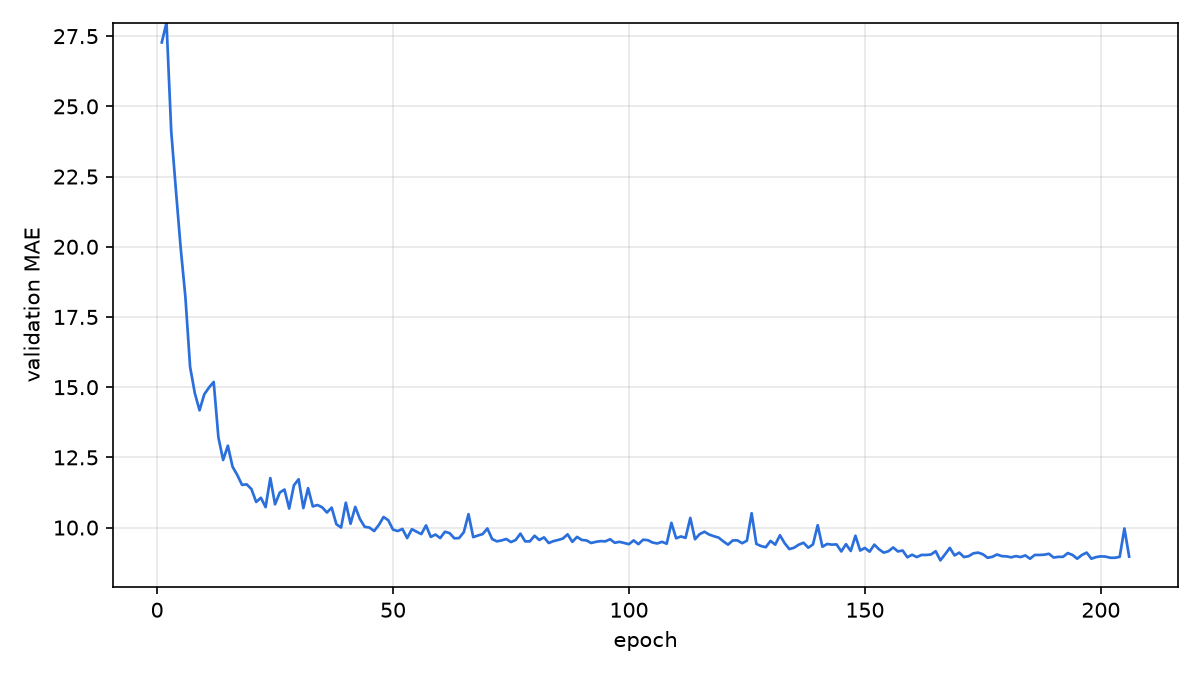
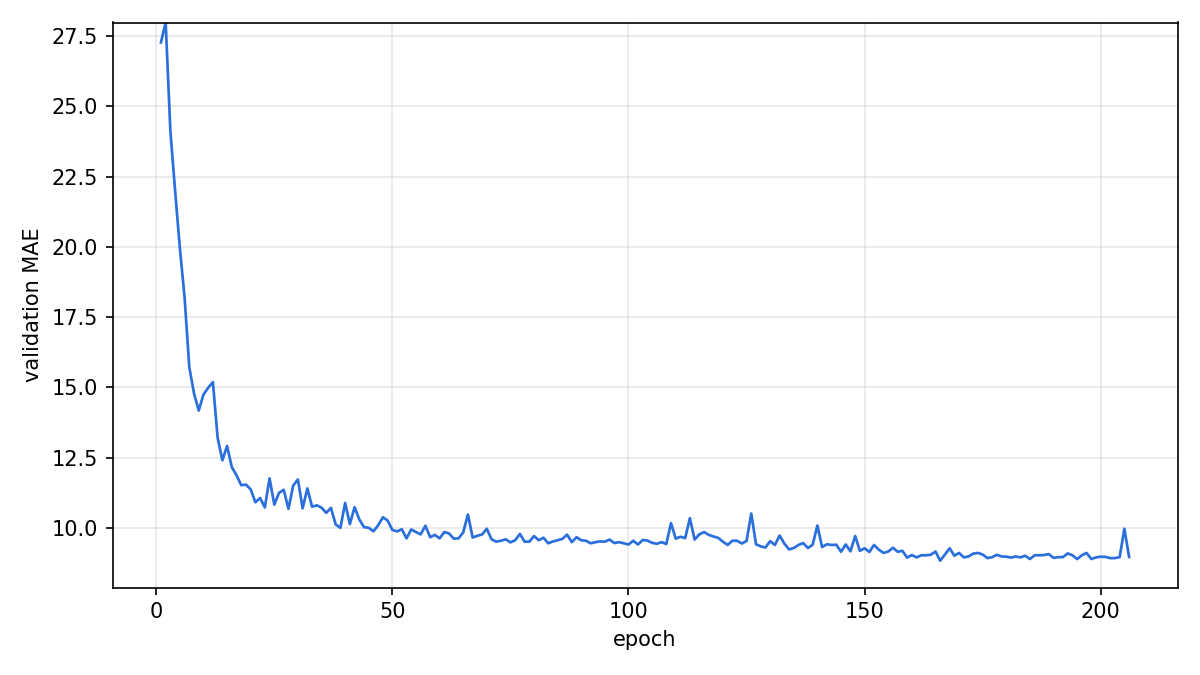
added comparison metrics for SPIN

diff --git a/imputegap/wrapper/AlgoPython/SPIN/validation/run_imputegap_version.py b/imputegap/wrapper/AlgoPython/SPIN/validation/run_imputegap_version.py
@@ -33,8 +33,6 @@ SEEDS = [1, 2, 3]
 
 
 class ExportedWindows(Dataset):
-    """Windows over the exported arrays, returning the same dict recovSPIN's loader returns."""
-
     def __init__(self, scaled, training_mask, eval_mask, u, starts, window):
         self.data = torch.as_tensor(scaled, dtype=torch.float32)[..., None]
         self.mask = torch.as_tensor(training_mask)[..., None]
@@ -54,12 +52,10 @@ class ExportedWindows(Dataset):
 
 def train_matched(model, train_loader, valid_loader, edge_index, edge_weight, device, epochs, lr, patience,
                   batches_epoch, whiten_prob, grad_clip_val, accumulate=2, verbose=True):
-    """recovSPIN.train with the authors' gradient accumulation + fp16 mixed precision added.
-    Lines differing from recovSPIN.train are marked  # <- matched."""
     optimizer = torch.optim.Adam(model.parameters(), lr=lr)
     scheduler = CosineSchedulerWithRestarts(optimizer, num_warmup_steps=12, min_factor=0.1, linear_decay=0.67,
                                             num_training_steps=epochs, num_cycles=max(1, epochs // 100))
-    scaler = torch.amp.GradScaler("cuda", enabled=device.type == "cuda")           # <- matched
+    scaler = torch.amp.GradScaler("cuda", enabled=device.type == "cuda")           
     whiten_prob = torch.tensor(whiten_prob, device=device)
     best_val, best_state, wait = float("inf"), copy.deepcopy(model.state_dict()), 0
     for epoch in range(epochs):
@@ -67,7 +63,7 @@ def train_matched(model, train_loader, valid_loader, edge_index, edge_weight, de
         losses = []
         optimizer.zero_grad()
         for i, batch in enumerate(train_loader):
-            if i >= batches_epoch * accumulate:                                     # <- matched
+            if i >= batches_epoch * accumulate:                                  
                 break
             batch = {k: v.to(device) for k, v in batch.items()}
             mask = batch["mask"].bool()
@@ -77,13 +73,13 @@ def train_matched(model, train_loader, valid_loader, edge_index, edge_weight, de
             injected_missing = mask & ~batch["mask"]
             batch["x"] = batch["y"] * batch["mask"]
             with torch.autocast(device_type=device.type, dtype=torch.float16,
-                                enabled=device.type == "cuda"):                     # <- matched
+                                enabled=device.type == "cuda"):                     
                 x_hat, imputations = mine.forward(model, batch, edge_index, edge_weight)
                 loss = mine.masked_l1(x_hat.float(), batch["y"], injected_missing)
                 for imp in imputations:
                     loss = loss + mine.masked_l1(imp.float(), batch["y"], injected_missing)
-            scaler.scale(loss / accumulate).backward()                              # <- matched
-            if (i + 1) % accumulate == 0:                                           # <- matched
+            scaler.scale(loss / accumulate).backward()                              
+            if (i + 1) % accumulate == 0:                                           
                 scaler.unscale_(optimizer)
                 torch.nn.utils.clip_grad_norm_(model.parameters(), grad_clip_val)
                 scaler.step(optimizer)
@@ -108,10 +104,9 @@ def train_matched(model, train_loader, valid_loader, edge_index, edge_weight, de
     return model
 
 
-def test_mae_like_authors(model, loader, edge_index, edge_weight, bias, scale, device):
-    """Authors' metric: masked MAE in original units over all test windows (eval_mask points)."""
+def test_metrics(model, loader, edge_index, edge_weight, bias, scale, device):
     model.eval()
-    err, cnt = 0.0, 0.0
+    abs_err, sq_err, abs_y, cnt = 0.0, 0.0, 0.0, 0.0
     with torch.no_grad():
         for batch in loader:
             batch = {k: v.to(device) for k, v in batch.items()}
@@ -119,15 +114,17 @@ def test_mae_like_authors(model, loader, edge_index, edge_weight, bias, scale, d
             y_hat = x_hat.float() * scale + bias
             y = batch["y"] * scale + bias
             m = batch["eval_mask"].float()
-            err += (torch.abs(y_hat - y) * m).sum().item()
+            abs_err += (torch.abs(y_hat - y) * m).sum().item()
+            sq_err += ((y_hat - y) ** 2 * m).sum().item()
+            abs_y += (torch.abs(y) * m).sum().item()
             cnt += m.sum().item()
-    return err / cnt
+    return abs_err / cnt, sq_err / cnt, abs_err / abs_y
 
 
 def main():
     p = argparse.ArgumentParser()
-    p.add_argument("--dataset", help="default: chosen from SLURM_ARRAY_TASK_ID")
-    p.add_argument("--seed", type=int, help="default: chosen from SLURM_ARRAY_TASK_ID")
+    p.add_argument("--dataset")
+    p.add_argument("--seed", type=int)
     p.add_argument("--mode", choices=["yours", "old", "matched"], default="yours")
     p.add_argument("--exported", default=os.path.expanduser("~/spin-original/validation/exported"))
     p.add_argument("--results", default=os.path.expanduser("~/spin-original/validation/results"))
@@ -148,7 +145,7 @@ def main():
     hp = toml.load(os.path.join(os.path.dirname(imputegap.__file__), "env", "default_values.toml"))["spin"]
     if a.epochs is not None:
         hp["epochs"] = a.epochs
-    extra = mine.handle_parser([])  # whiten_prob, grad_clip_val, message_layers, reweight (ImputeGAP version defaults)
+    extra = mine.handle_parser([])  
     print(f"dataset={a.dataset} seed={a.seed} mode={a.mode} device={device} "
           f"gpu={torch.cuda.get_device_name(0) if device.type == 'cuda' else '-'}")
     print(f"ImputeGAP version [spin] params: {hp}")
@@ -185,10 +182,10 @@ def main():
     t0 = time.time()
     common = dict(epochs=hp["epochs"], lr=hp["lr"], patience=hp["patience"], batches_epoch=hp["batches_epoch"],
                   whiten_prob=extra.whiten_prob, grad_clip_val=extra.grad_clip_val, verbose=True)
-    if a.mode == "yours":    # same arguments recovSPIN() passes since da244850
+    if a.mode == "yours":    
         model = mine.train(model, train_loader, valid_loader, edge_index, edge_weight, device, **common,
                            split_batch_in=2, precision=16)
-    elif a.mode == "old":    # recovSPIN before da244850
+    elif a.mode == "old":    
         model = mine.train(model, train_loader, valid_loader, edge_index, edge_weight, device, **common,
                            split_batch_in=1, precision=32)
     else:
@@ -197,17 +194,20 @@ def main():
 
     t_bias = torch.as_tensor(bias, device=device).view(1, 1, -1, 1) if bias.size == N else float(bias.reshape(-1)[0])
     t_scale = torch.as_tensor(scale, device=device).view(1, 1, -1, 1) if scale.size == N else float(scale.reshape(-1)[0])
-    mae = test_mae_like_authors(model, test_loader, edge_index, edge_weight, t_bias, t_scale, device)
+    mae, mse, mre = test_metrics(model, test_loader, edge_index, edge_weight, t_bias, t_scale, device)
     print(f"Test MAE: {mae:.4f}")
+    print(f"Test MSE: {mse:.4f}")
+    print(f"Test MRE: {mre:.4f}")
 
     os.makedirs(a.results, exist_ok=True)
-    out = os.path.join(a.results, f"mine_{a.mode}.csv")
+    out = os.path.join(a.results, f"mine_{a.mode}_metrics.csv")
     new = not os.path.exists(out)
     with open(out, "a", newline="") as f:
         w = csv.writer(f)
         if new:
-            w.writerow(["dataset", "seed", "mode", "test_mae", "seconds", "node"])
-        w.writerow([a.dataset, a.seed, a.mode, f"{mae:.4f}", int(seconds), os.uname().nodename])
+            w.writerow(["dataset", "seed", "mode", "test_mae", "test_mse", "test_mre", "seconds", "node"])
+        w.writerow([a.dataset, a.seed, a.mode, f"{mae:.4f}", f"{mse:.4f}", f"{mre:.4f}", int(seconds),
+                    os.uname().nodename])
 
 
 if __name__ == "__main__":

diff --git a/imputegap/wrapper/AlgoPython/SPIN/validation/check_masking.py b/imputegap/wrapper/AlgoPython/SPIN/validation/check_masking.py
@@ -37,7 +37,7 @@ def test_matrix():
 
 
 def gap_stats(missing):
-    """missing: (T, N) bool -> dict of missing-rate and gap statistics."""
+    """missing: (T, N) bool -> dict of missing-rate and gap statistics"""
     missing = np.asarray(missing, dtype=bool)
     lengths = []
     for col in missing.T:
@@ -119,7 +119,6 @@ SPIN_COMMIT = "7349ba31da7306e7e96c13668a3f1f0a4df90902"
 
 
 def authors_repo():
-    """Path to the authors' SPIN repository; cloned at the pinned commit if it is missing."""
     import subprocess
     repo = os.environ.get("SPIN_REPO", os.path.expanduser("~/spin-original/spin"))
     if not os.path.isdir(os.path.join(repo, "spin")):
@@ -268,7 +267,6 @@ def plot():
 
 
 def run_all():
-    """Run every step this environment can run: save (needs imputegap), check (needs tsl)."""
     import importlib.util
     has = lambda module: importlib.util.find_spec(module) is not None
     if has("imputegap"):

diff --git a/imputegap/wrapper/AlgoPython/SPIN/validation/run_original.py b/imputegap/wrapper/AlgoPython/SPIN/validation/run_original.py
@@ -59,7 +59,7 @@ def main():
     with open(log_path, "w") as log:
         process = subprocess.Popen(command, cwd=SPIN_REPO, env=env, text=True,
                                    stdout=subprocess.PIPE, stderr=subprocess.STDOUT)
-        for line in process.stdout:          # show the output live and keep a copy
+        for line in process.stdout:          
             print(line, end="", flush=True)
             log.write(line)
         process.wait()
